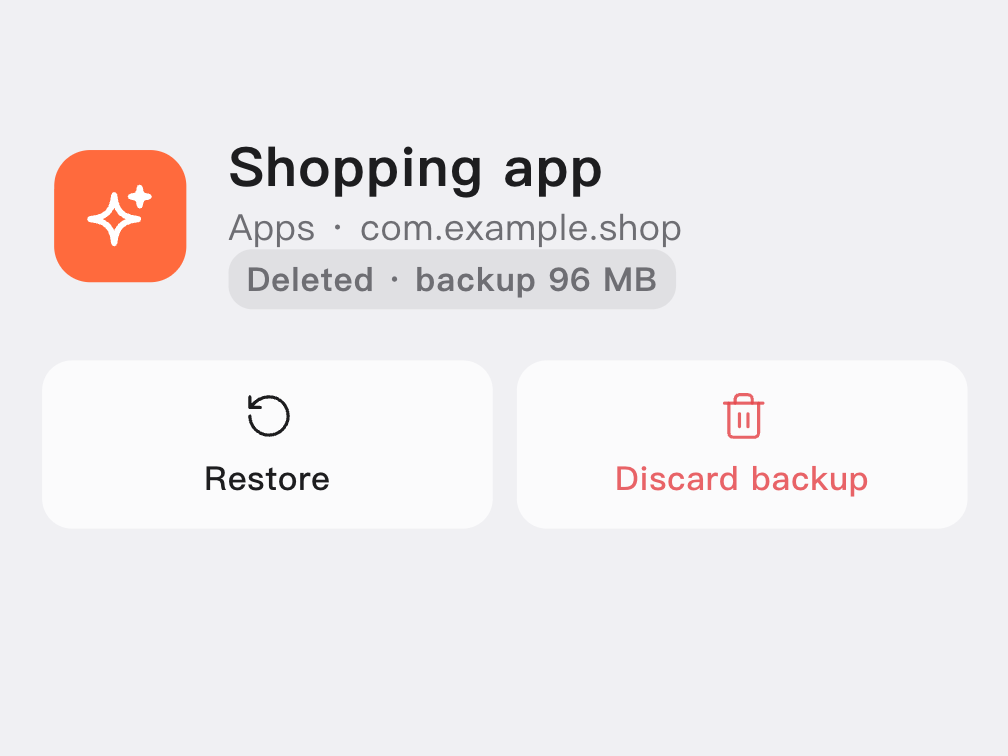
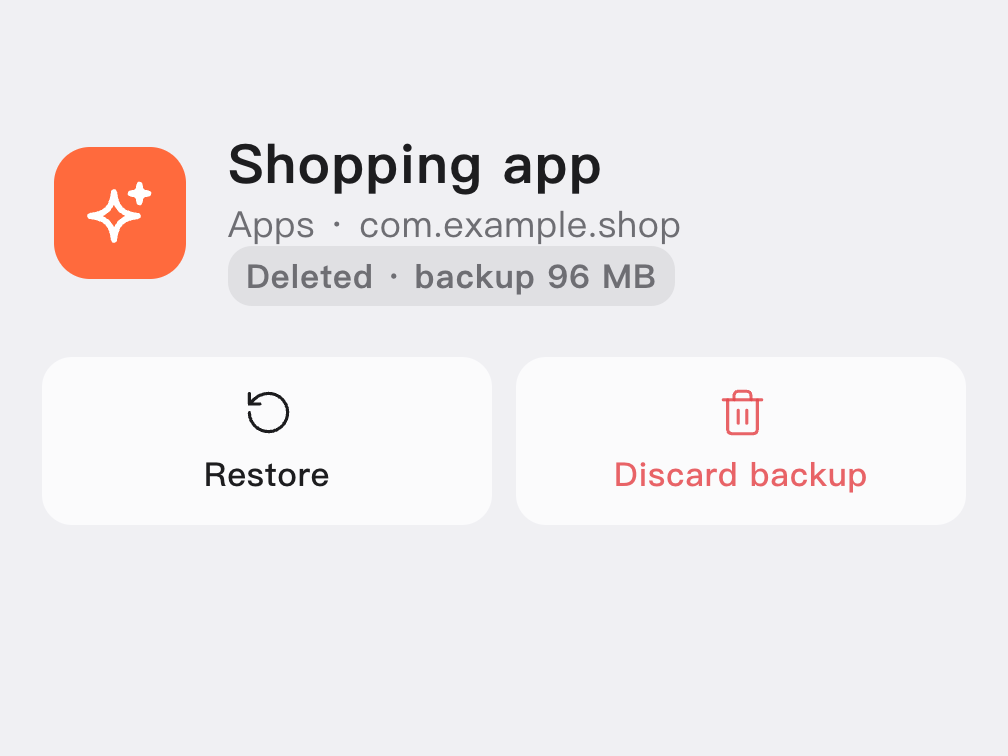
docs(readme): recapture the app management screenshots
The freeze dialog showed the old disable wording. All six pictures are captured again from the site's app demo at the same size and framing, and the freeze picture's alt text says freeze.

diff --git a/README.en.md b/README.en.md
@@ -38,7 +38,7 @@ A lightweight Android app behavior monitor and manager.
 Apps are grouped by source. Open an app's details to review its activity and decide whether to make a change. App management actions start with you. After each change, Jiumi reads the state back from Android to confirm it took effect, and shows the reason if Android refuses.
 
 <p align="center">
-  <a href="code/images/app-disable.en.png"><img src="code/images/app-disable.en.png" width="250" alt="Website demo showing the confirmation to disable an app" /></a>&nbsp;
+  <a href="code/images/app-disable.en.png"><img src="code/images/app-disable.en.png" width="250" alt="Website demo showing the confirmation to freeze an app" /></a>&nbsp;
   <a href="code/images/app-delete.en.png"><img src="code/images/app-delete.en.png" width="250" alt="Website demo showing the delete confirmation and backup notice" /></a>&nbsp;
   <a href="code/images/app-restore.en.png"><img src="code/images/app-restore.en.png" width="250" alt="Website demo showing Restore and Discard backup for a deleted app" /></a>
 </p>

diff --git a/README.md b/README.md
@@ -38,7 +38,7 @@
 「应用」页按来源整理应用。在应用详情里查看行为记录，再决定要不要改动。所有管理操作都由你发起，揪咪改动后会读回系统状态确认是否生效，系统拒绝时显示原因。
 
 <p align="center">
-  <a href="code/images/app-disable.zh.png"><img src="code/images/app-disable.zh.png" width="250" alt="官网演示：停用应用的确认弹窗" /></a>&nbsp;
+  <a href="code/images/app-disable.zh.png"><img src="code/images/app-disable.zh.png" width="250" alt="官网演示：冻结应用的确认弹窗" /></a>&nbsp;
   <a href="code/images/app-delete.zh.png"><img src="code/images/app-delete.zh.png" width="250" alt="官网演示：删除应用的确认弹窗与备份说明" /></a>&nbsp;
   <a href="code/images/app-restore.zh.png"><img src="code/images/app-restore.zh.png" width="250" alt="官网演示：已删除应用的恢复和清除备份按钮" /></a>
 </p>
